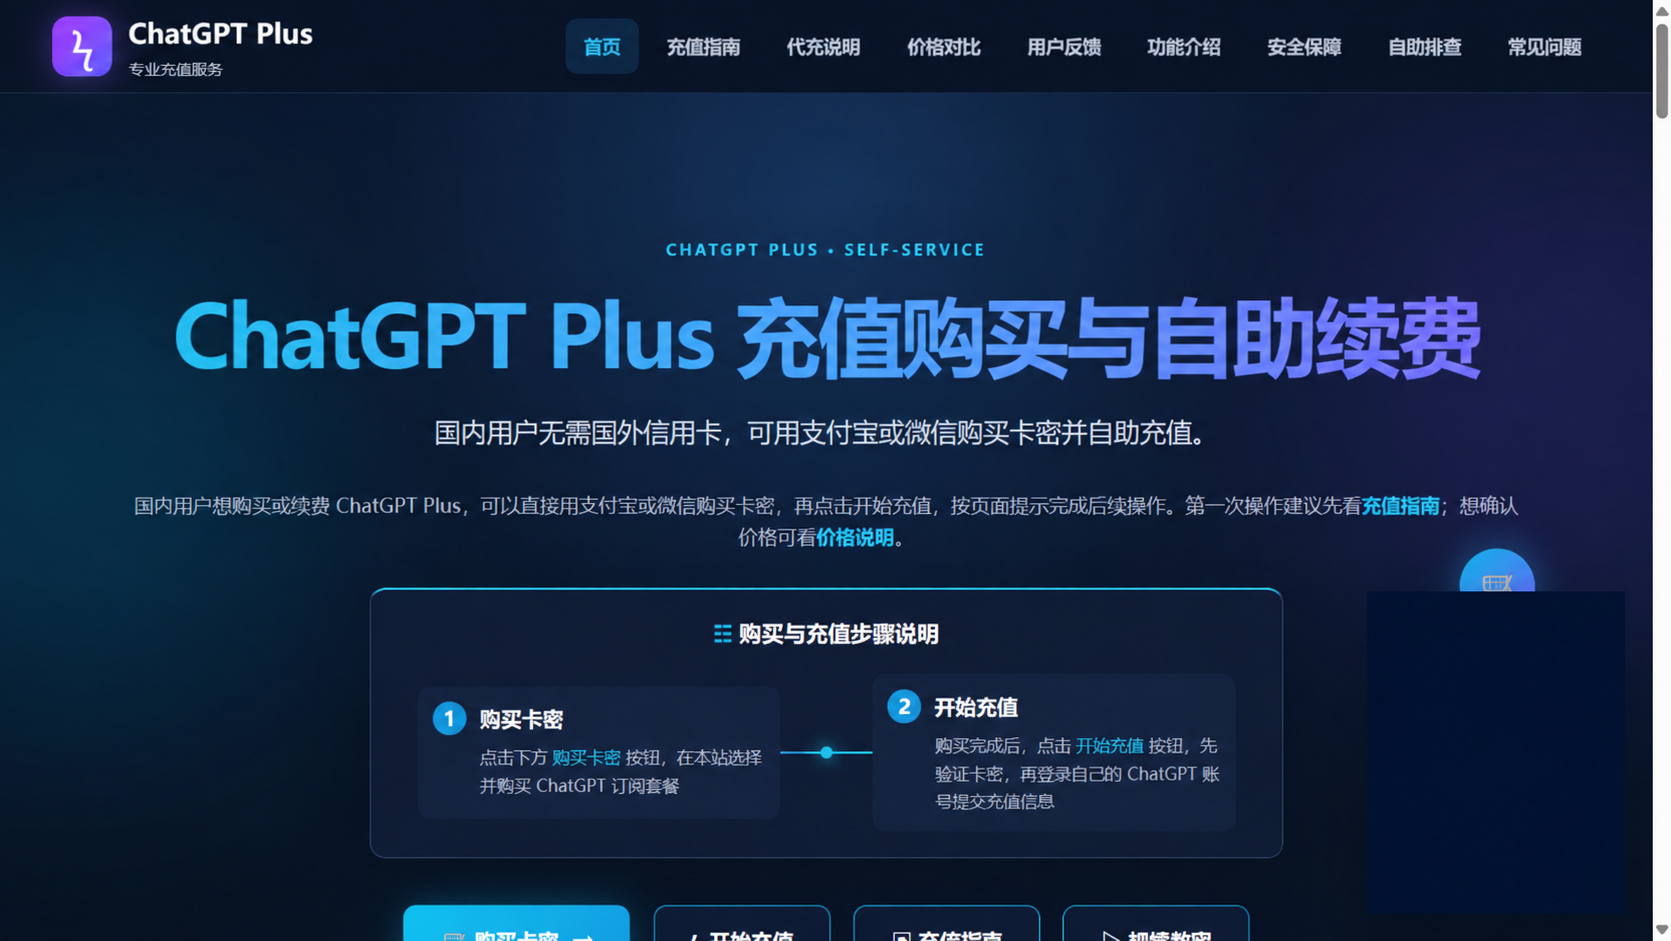
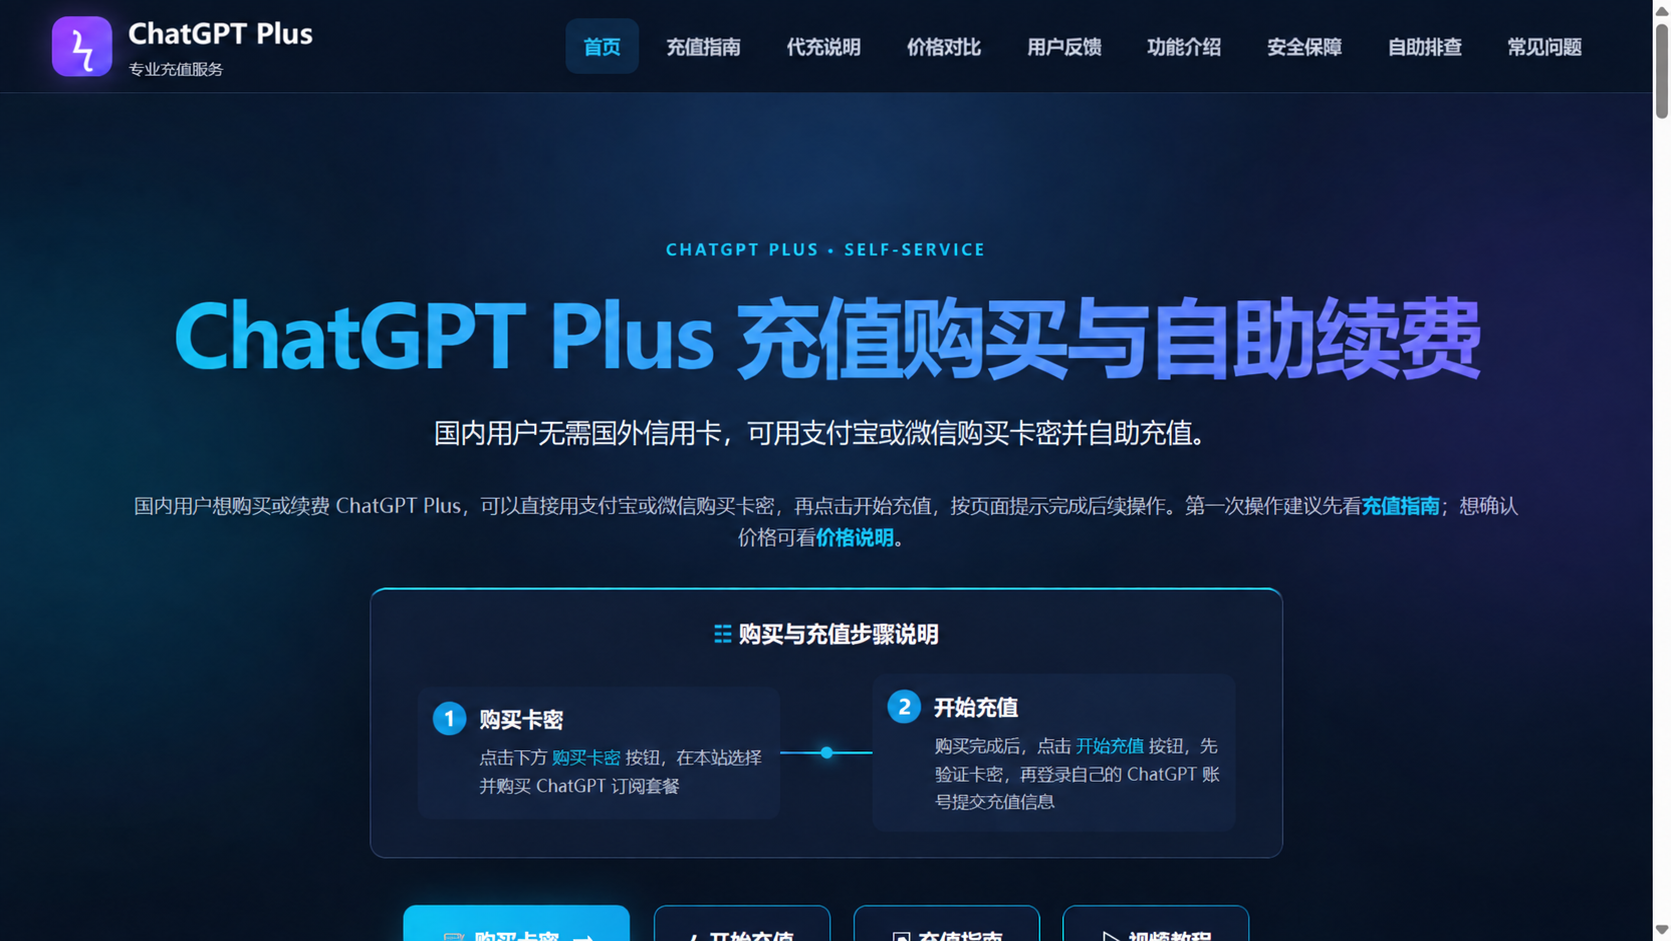
Remove QR popup and restore screenshot backgrounds

diff --git a/gpt6-plus-codex.html b/gpt6-plus-codex.html
@@ -1,6 +1,6 @@
-<!doctype html><html lang="zh-CN"><head><meta charset="utf-8"><meta name="viewport" content="width=device-width,initial-scale=1"><title>ChatGPT Plus Codex 支付宝订阅教程：GPT-6 Astra、GPT-6 Sol、GPT-6 Luna 使用指南</title><meta name="description" content="ChatGPT Plus 支付宝订阅教程，了解 Codex 使用额度、GPT-6 Astra、Sol、Luna 的区别，以及支付失败排查与订阅渠道。"><meta name="theme-color" content="#268260"><meta property="og:type" content="article"><meta property="og:title" content="ChatGPT Plus Codex 支付宝订阅教程：GPT-6 Astra、GPT-6 Sol、GPT-6 Luna 使用指南"><meta property="og:description" content="ChatGPT Plus 支付宝订阅教程，了解 Codex 使用额度、GPT-6 Astra、Sol、Luna 的区别，以及支付失败排查与订阅渠道。"><link rel="stylesheet" href="gpt6-guide.css"><script defer src="gpt6-guide.js"></script><link rel="canonical" href="https://chatgptchongzhi.github.io/chatgpt-plus-guide/gpt6-plus-codex.html"><meta property="og:url" content="https://chatgptchongzhi.github.io/chatgpt-plus-guide/gpt6-plus-codex.html"><meta property="og:image" content="https://chatgptchongzhi.github.io/chatgpt-plus-guide/gpt6-wokeesub-home.png?v=qr-hidden"><script type="application/ld+json">{"@context":"https://schema.org","@type":"Article","headline":"ChatGPT Plus Codex 支付宝订阅教程：GPT-6 Astra、GPT-6 Sol、GPT-6 Luna 使用指南","datePublished":"2026-09-25","dateModified":"2026-09-25","inLanguage":"zh-CN","mainEntityOfPage":"https://chatgptchongzhi.github.io/chatgpt-plus-guide/gpt6-plus-codex.html","image":"https://chatgptchongzhi.github.io/chatgpt-plus-guide/gpt6-wokeesub-home.png?v=qr-hidden"}</script></head><body><a class="skip" href="#main">跳至正文</a><header><a class="brand" href="#top"><span class="brand-icon">W</span><span>AI 订阅指南</span></a><nav aria-label="顶部导航"><a class="selected" href="#top">Plus · Codex</a><a href="#section-3">GPT-6 模型</a><a href="#section-6">支付指南</a><a class="shop" href="https://wokeesub.com/" target="_blank" rel="noopener sponsored">WokeeSub ↗</a></nav><button id="menu" aria-label="展开目录" aria-expanded="false" aria-controls="sidebar">☰</button></header><aside id="sidebar"><div class="side-label">CHATGPT & CODEX</div><a class="side-title" href="#top">ChatGPT Plus 支付宝订阅教程</a><div class="side-sub">本文目录</div><nav aria-label="文章目录"><a href="#section-1">一、ChatGPT Plus 是什么？</a><a href="#section-2">二、ChatGPT Plus 可以使用 Codex 吗？</a><a href="#section-3">三、GPT-6 Astra 是什么？</a><a href="#section-4">四、GPT-6 Sol 是什么？</a><a href="#section-5">五、GPT-6 Luna 是什么？</a><a href="#section-6">六、ChatGPT Plus 支持支付宝吗？</a><a href="#section-7">七、ChatGPT Plus 支付失败怎么办？</a><a href="#section-8">八、Codex 是否需要单独订阅？</a><a href="#section-9">九、ChatGPT Plus、Codex 和 GPT-6 应该怎么选择？</a><a href="#section-10">十、ChatGPT Plus 支付宝订阅常见问题</a><a href="#section-11">总结</a></nav><div class="side-bottom"><span>订阅服务入口</span><a href="https://wokeesub.com/" target="_blank" rel="noopener sponsored">wokeesub.com ↗</a></div></aside><main id="main"><article id="top"><div class="breadcrumb">AI 订阅指南 <span>/</span> ChatGPT Plus & Codex</div><h1>ChatGPT Plus Codex 支付宝订阅教程：GPT-6 Astra、GPT-6 Sol、GPT-6 Luna 使用指南</h1><div class="meta"><span>订阅与模型使用指南</span><span>更新于 2026年9月25日</span><span>约 10 分钟阅读</span></div><details class="contents"><summary>此页内容</summary><nav><a href="#section-1">一、ChatGPT Plus 是什么？</a><a href="#section-2">二、ChatGPT Plus 可以使用 Codex 吗？</a><a href="#section-3">三、GPT-6 Astra 是什么？</a><a href="#section-4">四、GPT-6 Sol 是什么？</a><a href="#section-5">五、GPT-6 Luna 是什么？</a><a href="#section-6">六、ChatGPT Plus 支持支付宝吗？</a><a href="#section-7">七、ChatGPT Plus 支付失败怎么办？</a><a href="#section-8">八、Codex 是否需要单独订阅？</a><a href="#section-9">九、ChatGPT Plus、Codex 和 GPT-6 应该怎么选择？</a><a href="#section-10">十、ChatGPT Plus 支付宝订阅常见问题</a><a href="#section-11">总结</a></nav></details><div class="note"><strong>先分清三件事</strong><br>ChatGPT Plus 订阅、Codex 额外使用额度、OpenAI API Token 属于不同产品或计费项目。模型权限以当前账号显示为准。</div><p>随着 GPT-6 系列上线，越来越多用户开始搜索 ChatGPT Plus 怎么订阅、Codex 怎么付费、ChatGPT Plus 能不能使用支付宝，以及 GPT-6 Astra、GPT-6 Sol、GPT-6 Luna 有什么区别。对于国内用户来说，真正容易遇到的问题往往不是怎么使用 ChatGPT，而是 ChatGPT Plus 支付方式、银行卡支付失败、Codex 额度以及不同 GPT-6 模型应该怎么选择。</p>
+<!doctype html><html lang="zh-CN"><head><meta charset="utf-8"><meta name="viewport" content="width=device-width,initial-scale=1"><title>ChatGPT Plus Codex 支付宝订阅教程：GPT-6 Astra、GPT-6 Sol、GPT-6 Luna 使用指南</title><meta name="description" content="ChatGPT Plus 支付宝订阅教程，了解 Codex 使用额度、GPT-6 Astra、Sol、Luna 的区别，以及支付失败排查与订阅渠道。"><meta name="theme-color" content="#268260"><meta property="og:type" content="article"><meta property="og:title" content="ChatGPT Plus Codex 支付宝订阅教程：GPT-6 Astra、GPT-6 Sol、GPT-6 Luna 使用指南"><meta property="og:description" content="ChatGPT Plus 支付宝订阅教程，了解 Codex 使用额度、GPT-6 Astra、Sol、Luna 的区别，以及支付失败排查与订阅渠道。"><link rel="stylesheet" href="gpt6-guide.css"><script defer src="gpt6-guide.js"></script><link rel="canonical" href="https://chatgptchongzhi.github.io/chatgpt-plus-guide/gpt6-plus-codex.html"><meta property="og:url" content="https://chatgptchongzhi.github.io/chatgpt-plus-guide/gpt6-plus-codex.html"><meta property="og:image" content="https://chatgptchongzhi.github.io/chatgpt-plus-guide/gpt6-wokeesub-home.png?v=clean"><script type="application/ld+json">{"@context":"https://schema.org","@type":"Article","headline":"ChatGPT Plus Codex 支付宝订阅教程：GPT-6 Astra、GPT-6 Sol、GPT-6 Luna 使用指南","datePublished":"2026-09-25","dateModified":"2026-09-25","inLanguage":"zh-CN","mainEntityOfPage":"https://chatgptchongzhi.github.io/chatgpt-plus-guide/gpt6-plus-codex.html","image":"https://chatgptchongzhi.github.io/chatgpt-plus-guide/gpt6-wokeesub-home.png?v=clean"}</script></head><body><a class="skip" href="#main">跳至正文</a><header><a class="brand" href="#top"><span class="brand-icon">W</span><span>AI 订阅指南</span></a><nav aria-label="顶部导航"><a class="selected" href="#top">Plus · Codex</a><a href="#section-3">GPT-6 模型</a><a href="#section-6">支付指南</a><a class="shop" href="https://wokeesub.com/" target="_blank" rel="noopener sponsored">WokeeSub ↗</a></nav><button id="menu" aria-label="展开目录" aria-expanded="false" aria-controls="sidebar">☰</button></header><aside id="sidebar"><div class="side-label">CHATGPT & CODEX</div><a class="side-title" href="#top">ChatGPT Plus 支付宝订阅教程</a><div class="side-sub">本文目录</div><nav aria-label="文章目录"><a href="#section-1">一、ChatGPT Plus 是什么？</a><a href="#section-2">二、ChatGPT Plus 可以使用 Codex 吗？</a><a href="#section-3">三、GPT-6 Astra 是什么？</a><a href="#section-4">四、GPT-6 Sol 是什么？</a><a href="#section-5">五、GPT-6 Luna 是什么？</a><a href="#section-6">六、ChatGPT Plus 支持支付宝吗？</a><a href="#section-7">七、ChatGPT Plus 支付失败怎么办？</a><a href="#section-8">八、Codex 是否需要单独订阅？</a><a href="#section-9">九、ChatGPT Plus、Codex 和 GPT-6 应该怎么选择？</a><a href="#section-10">十、ChatGPT Plus 支付宝订阅常见问题</a><a href="#section-11">总结</a></nav><div class="side-bottom"><span>订阅服务入口</span><a href="https://wokeesub.com/" target="_blank" rel="noopener sponsored">wokeesub.com ↗</a></div></aside><main id="main"><article id="top"><div class="breadcrumb">AI 订阅指南 <span>/</span> ChatGPT Plus & Codex</div><h1>ChatGPT Plus Codex 支付宝订阅教程：GPT-6 Astra、GPT-6 Sol、GPT-6 Luna 使用指南</h1><div class="meta"><span>订阅与模型使用指南</span><span>更新于 2026年9月25日</span><span>约 10 分钟阅读</span></div><details class="contents"><summary>此页内容</summary><nav><a href="#section-1">一、ChatGPT Plus 是什么？</a><a href="#section-2">二、ChatGPT Plus 可以使用 Codex 吗？</a><a href="#section-3">三、GPT-6 Astra 是什么？</a><a href="#section-4">四、GPT-6 Sol 是什么？</a><a href="#section-5">五、GPT-6 Luna 是什么？</a><a href="#section-6">六、ChatGPT Plus 支持支付宝吗？</a><a href="#section-7">七、ChatGPT Plus 支付失败怎么办？</a><a href="#section-8">八、Codex 是否需要单独订阅？</a><a href="#section-9">九、ChatGPT Plus、Codex 和 GPT-6 应该怎么选择？</a><a href="#section-10">十、ChatGPT Plus 支付宝订阅常见问题</a><a href="#section-11">总结</a></nav></details><div class="note"><strong>先分清三件事</strong><br>ChatGPT Plus 订阅、Codex 额外使用额度、OpenAI API Token 属于不同产品或计费项目。模型权限以当前账号显示为准。</div><p>随着 GPT-6 系列上线，越来越多用户开始搜索 ChatGPT Plus 怎么订阅、Codex 怎么付费、ChatGPT Plus 能不能使用支付宝，以及 GPT-6 Astra、GPT-6 Sol、GPT-6 Luna 有什么区别。对于国内用户来说，真正容易遇到的问题往往不是怎么使用 ChatGPT，而是 ChatGPT Plus 支付方式、银行卡支付失败、Codex 额度以及不同 GPT-6 模型应该怎么选择。</p>
 <p>本文集中介绍 ChatGPT Plus、Codex、GPT-6 Astra、GPT-6 Sol、GPT-6 Luna，以及大家比较关心的 ChatGPT Plus 支付宝订阅问题。</p>
-<div class="cta"><div><span class="eyebrow">第三方订阅服务</span><h3>查看 WokeeSub 订阅方案</h3><p>了解当前套餐、支付方式与订单说明。</p></div><a class="button" href="https://wokeesub.com/" target="_blank" rel="noopener sponsored">前往 wokeesub.com <span>↗</span></a></div><figure><a href="gpt6-wokeesub-home.png?v=qr-hidden" target="_blank" aria-label="查看原尺寸截图：WokeeSub 首页与服务入口"><img src="gpt6-wokeesub-home.png?v=qr-hidden" alt="WokeeSub 首页与服务入口" width="1270" height="713" loading="lazy"></a><figcaption>WokeeSub 首页与服务入口 · 页面实拍，点击可放大</figcaption></figure><h2 id="section-1">一、ChatGPT Plus 是什么？</h2>
+<div class="cta"><div><span class="eyebrow">第三方订阅服务</span><h3>查看 WokeeSub 订阅方案</h3><p>了解当前套餐、支付方式与订单说明。</p></div><a class="button" href="https://wokeesub.com/" target="_blank" rel="noopener sponsored">前往 wokeesub.com <span>↗</span></a></div><figure><a href="gpt6-wokeesub-home.png?v=clean" target="_blank" aria-label="查看原尺寸截图：WokeeSub 首页与服务入口"><img src="gpt6-wokeesub-home.png?v=clean" alt="WokeeSub 首页与服务入口" width="1270" height="713" loading="lazy"></a><figcaption>WokeeSub 首页与服务入口 · 页面实拍，点击可放大</figcaption></figure><h2 id="section-1">一、ChatGPT Plus 是什么？</h2>
 <p>ChatGPT Plus 是 OpenAI 面向个人用户提供的付费订阅方案，目前官方基础价格为每月 20 美元。</p>
 <p>相比免费版，ChatGPT Plus 可以获得更高的模型和功能使用额度，同时支持文件分析、图片生成、Deep Research 等更多功能。具体可使用的模型和额度可能随着 OpenAI 更新发生变化。</p>
 <p>需要特别注意的是：</p>
@@ -34,7 +34,7 @@
 <p>所以搜索“ChatGPT Plus 支付宝订阅教程”时，需要先区分：</p>
 <ul><li>ChatGPT 官网直接订阅；</li><li>Apple App Store 应用内订阅；</li><li>Google Play 应用内订阅；</li><li>第三方代充或代订阅。</li></ul>
 <p>它们并不是同一种付款渠道。</p>
-<h3>WokeeSub 页面示例</h3><p>下面是 wokeesub.com 的套餐与收银台实际界面。截图仅用于展示页面位置，价格、可售套餐和服务条款以进入网站后的实时页面为准。</p><figure><a href="gpt6-wokeesub-plans.png?v=qr-hidden" target="_blank" aria-label="查看原尺寸截图：WokeeSub 套餐选择页面"><img src="gpt6-wokeesub-plans.png?v=qr-hidden" alt="WokeeSub 套餐选择页面" width="1270" height="713" loading="lazy"></a><figcaption>WokeeSub 套餐选择页面 · 页面实拍，点击可放大</figcaption></figure><figure><a href="gpt6-wokeesub-checkout.png" target="_blank" aria-label="查看原尺寸截图：WokeeSub 收银台：确认套餐与支付信息"><img src="gpt6-wokeesub-checkout.png" alt="WokeeSub 收银台：确认套餐与支付信息" width="1270" height="713" loading="lazy"></a><figcaption>WokeeSub 收银台：确认套餐与支付信息 · 页面实拍，点击可放大</figcaption></figure><div class="cta"><div><span class="eyebrow">第三方订阅服务</span><h3>查看 WokeeSub 订阅方案</h3><p>了解当前套餐、支付方式与订单说明。</p></div><a class="button" href="https://wokeesub.com/" target="_blank" rel="noopener sponsored">前往 wokeesub.com <span>↗</span></a></div><h2 id="section-7">七、ChatGPT Plus 支付失败怎么办？</h2>
+<h3>WokeeSub 页面示例</h3><p>下面是 wokeesub.com 的套餐与收银台实际界面。截图仅用于展示页面位置，价格、可售套餐和服务条款以进入网站后的实时页面为准。</p><figure><a href="gpt6-wokeesub-plans.png?v=clean" target="_blank" aria-label="查看原尺寸截图：WokeeSub 套餐选择页面"><img src="gpt6-wokeesub-plans.png?v=clean" alt="WokeeSub 套餐选择页面" width="1270" height="713" loading="lazy"></a><figcaption>WokeeSub 套餐选择页面 · 页面实拍，点击可放大</figcaption></figure><figure><a href="gpt6-wokeesub-checkout.png" target="_blank" aria-label="查看原尺寸截图：WokeeSub 收银台：确认套餐与支付信息"><img src="gpt6-wokeesub-checkout.png" alt="WokeeSub 收银台：确认套餐与支付信息" width="1270" height="713" loading="lazy"></a><figcaption>WokeeSub 收银台：确认套餐与支付信息 · 页面实拍，点击可放大</figcaption></figure><div class="cta"><div><span class="eyebrow">第三方订阅服务</span><h3>查看 WokeeSub 订阅方案</h3><p>了解当前套餐、支付方式与订单说明。</p></div><a class="button" href="https://wokeesub.com/" target="_blank" rel="noopener sponsored">前往 wokeesub.com <span>↗</span></a></div><h2 id="section-7">七、ChatGPT Plus 支付失败怎么办？</h2>
 <p>如果购买 ChatGPT Plus 时出现银行卡被拒绝、支付失败、无法完成付款等情况，可以优先检查：</p>
 <ul><li>银行卡是否支持国际在线支付；</li><li>账单信息是否正确；</li><li>账户地区和付款方式是否匹配；</li><li>银行是否拦截境外交易；</li><li>当前 ChatGPT 账号是否存在异常的重复支付请求。</li></ul>
 <p>不要在付款失败以后短时间连续提交大量支付请求。</p>
